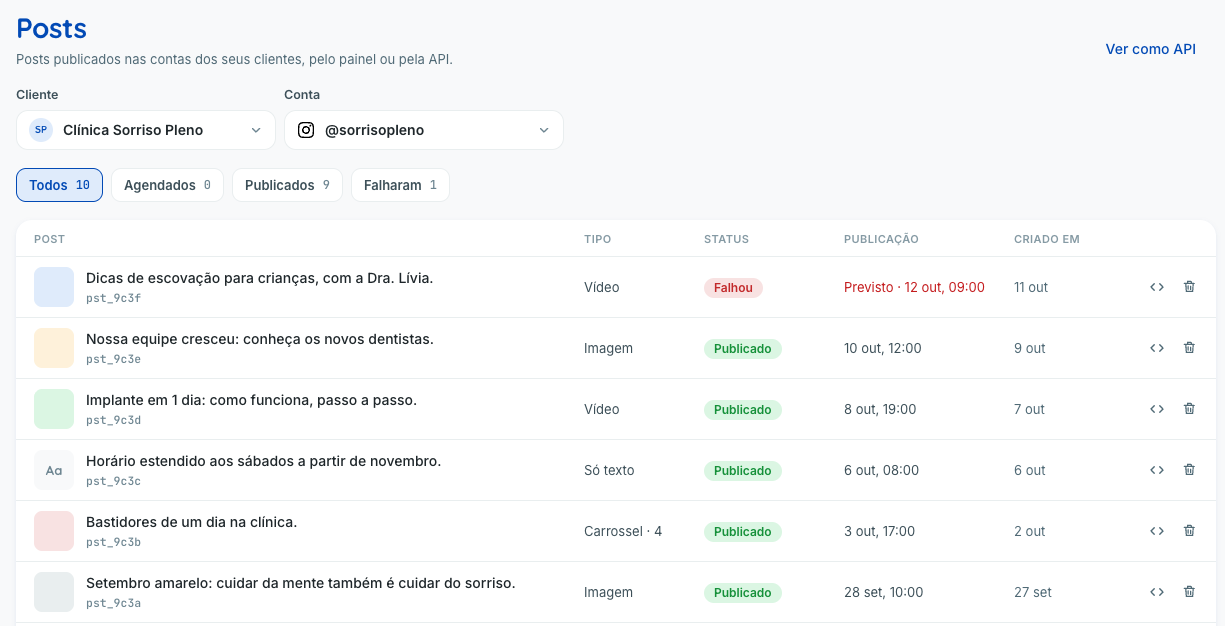
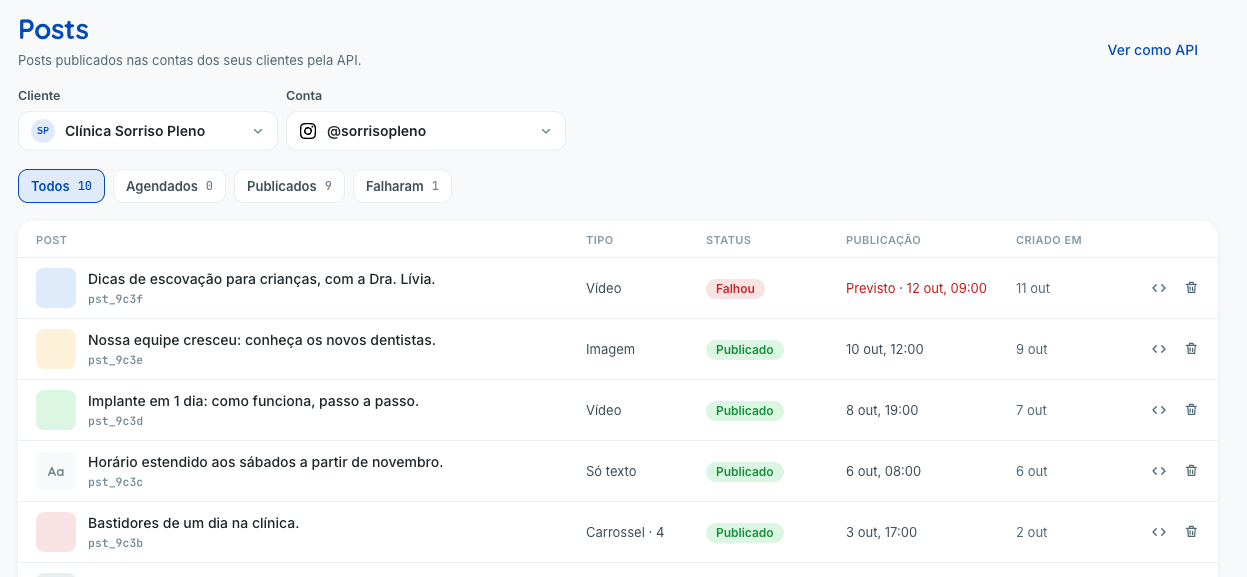
feat(lp): realistic post previews and the new Posts capture

diff --git a/components/api-demo-section.tsx b/components/api-demo-section.tsx
@@ -1,7 +1,7 @@
 "use client"
 
 import { useState, type ReactNode } from "react"
-import { ArrowDown, Check, Clock } from "lucide-react"
+import { ArrowDown, Bookmark, Check, Clock, Heart, MessageCircle, Send, Share2, ThumbsUp } from "lucide-react"
 
 type Step = {
   label: string
@@ -393,6 +393,38 @@ Idempotency-Key: post-2026-10-08-002-v1
   },
 ]
 
+/**
+ * Stand-in for the post's photo: a beach scene drawn in SVG, so the mockup reads as a picture
+ * without shipping a stock image.
+ */
+function SummerArt({ className = "" }: { className?: string }) {
+  return (
+    <svg viewBox="0 0 400 400" preserveAspectRatio="xMidYMid slice" className={className} aria-hidden="true">
+      <defs>
+        <linearGradient id="sky" x1="0" y1="0" x2="0" y2="1">
+          <stop offset="0" stopColor="#ffd9a8" />
+          <stop offset="1" stopColor="#ff9f8a" />
+        </linearGradient>
+        <linearGradient id="sea" x1="0" y1="0" x2="0" y2="1">
+          <stop offset="0" stopColor="#4fb6d6" />
+          <stop offset="1" stopColor="#2a7fb8" />
+        </linearGradient>
+      </defs>
+      <rect width="400" height="400" fill="url(#sky)" />
+      <circle cx="285" cy="150" r="58" fill="#fff4d6" />
+      <path d="M0 238 C 70 222 130 252 200 238 S 330 222 400 238 V 300 H 0 Z" fill="url(#sea)" />
+      <path d="M0 262 C 80 250 140 276 210 262 S 340 250 400 262 V 300 H 0 Z" fill="#7fd0e6" opacity="0.6" />
+      <path d="M0 290 C 120 270 260 300 400 282 V 400 H 0 Z" fill="#f6dcb0" />
+      <g transform="translate(92 236)">
+        <path d="M0 64 L 6 -6" stroke="#8a5a3c" strokeWidth="5" strokeLinecap="round" />
+        <path d="M-58 4 Q 6 -58 70 4 Z" fill="#ff5e7e" />
+        <path d="M-58 4 Q -26 -30 6 -6 Q 38 -30 70 4 Q 38 -10 6 -6 Q -26 -10 -58 4 Z" fill="#fff" opacity="0.35" />
+      </g>
+      <rect x="236" y="300" width="70" height="40" rx="6" fill="#ffffff" opacity="0.85" transform="rotate(-8 271 320)" />
+    </svg>
+  )
+}
+
 function SocialPost({
   network,
   status,
@@ -406,31 +438,49 @@ function SocialPost({
 
   return (
     <Panel title={instagram ? "No Instagram do seu cliente" : "Na página do seu cliente"}>
-      <div className="overflow-hidden rounded-lg border">
-        <div className="flex items-center justify-between gap-3 p-3">
-          <div className="flex items-center gap-2.5">
-            <span className="flex size-8 items-center justify-center rounded-full bg-gradient-to-br from-[#7039f3] to-[#070e4d] text-xs font-semibold text-white">
-              MM
-            </span>
-            <div>
-              <p className="text-sm font-semibold">{instagram ? "minha_marca" : "Minha Marca"}</p>
-              <p className="text-xs text-muted-foreground">{published ? "Agora" : "Enviando…"}</p>
-            </div>
+      <div className="mx-auto max-w-[360px] overflow-hidden rounded-lg border bg-white text-[13px]">
+        <div className="flex items-center gap-2.5 px-3 py-2.5">
+          <span
+            className={`flex size-8 shrink-0 items-center justify-center rounded-full text-[11px] font-semibold text-white ${
+              instagram
+                ? "bg-[#7039f3] ring-2 ring-[#f58529] ring-offset-2"
+                : "bg-[#7039f3]"
+            }`}
+          >
+            MM
+          </span>
+          <div className="min-w-0 flex-1 leading-tight">
+            <p className="font-semibold">{instagram ? "minha_marca" : "Minha Marca"}</p>
+            <p className="text-xs text-muted-foreground">
+              {published ? (instagram ? "Agora" : "Agora · Público") : "Publicando…"}
+            </p>
           </div>
           <img
             src={instagram ? "/images/integrations/instagram_business.svg" : "/images/integrations/facebook.svg"}
             alt=""
-            className="h-5 w-5"
+            className="h-4 w-4"
           />
         </div>
-        {!instagram && <p className="px-3 pb-3 text-sm">Coleção de verão chegando às lojas</p>}
-        <div
-          className={`flex aspect-[4/3] items-center justify-center bg-gradient-to-br from-[#ffb36b] via-[#ff6f91] to-[#7039f3] text-2xl font-semibold text-white ${published ? "" : "opacity-60"}`}
-        >
-          Coleção de verão
+
+        {!instagram && <p className="px-3 pb-2.5">Coleção de verão chegando às lojas ☀</p>}
+
+        <div className={`relative ${instagram ? "aspect-square" : "aspect-[1.91/1]"}`}>
+          <SummerArt className={`absolute inset-0 h-full w-full transition-opacity ${published ? "" : "opacity-50"}`} />
+          {!published && (
+            <span className="absolute inset-0 flex items-center justify-center">
+              <span className="size-8 animate-spin rounded-full border-[3px] border-white/60 border-t-white" />
+            </span>
+          )}
         </div>
-        {instagram && (
-          <div className="space-y-1 p-3 text-sm">
+
+        {instagram ? (
+          <div className="space-y-1 px-3 py-2.5">
+            <div className="flex items-center gap-3 pb-1 text-foreground">
+              <Heart className="h-5 w-5" aria-hidden="true" />
+              <MessageCircle className="h-5 w-5" aria-hidden="true" />
+              <Send className="h-5 w-5" aria-hidden="true" />
+              <Bookmark className="ml-auto h-5 w-5" aria-hidden="true" />
+            </div>
             <p>
               <span className="font-semibold">minha_marca</span> Coleção de verão #verao
             </p>
@@ -438,11 +488,30 @@ function SocialPost({
               <span className="font-semibold text-foreground">minha_marca</span> Link na bio!
             </p>
           </div>
+        ) : (
+          <div className="flex justify-around border-t px-3 py-2 text-xs font-medium text-muted-foreground">
+            <span className="flex items-center gap-1.5">
+              <ThumbsUp className="h-4 w-4" aria-hidden="true" />
+              Curtir
+            </span>
+            <span className="flex items-center gap-1.5">
+              <MessageCircle className="h-4 w-4" aria-hidden="true" />
+              Comentar
+            </span>
+            <span className="flex items-center gap-1.5">
+              <Share2 className="h-4 w-4" aria-hidden="true" />
+              Compartilhar
+            </span>
+          </div>
         )}
       </div>
-      <div className="mt-4 flex items-center justify-between gap-3">
+      <div className="mx-auto mt-4 flex max-w-[360px] items-center justify-between gap-3">
         {status}
-        {published && <span className="text-xs text-muted-foreground">{instagram ? "instagram.com/p/DePI16BER0c" : "facebook.com/minhamarca"}</span>}
+        {published && (
+          <span className="truncate text-xs text-muted-foreground">
+            {instagram ? "instagram.com/p/DePI16BER0c" : "facebook.com/minhamarca"}
+          </span>
+        )}
       </div>
     </Panel>
   )

diff --git a/components/product-shots.tsx b/components/product-shots.tsx
@@ -16,10 +16,10 @@ const SHOTS = [
     key: "posts",
     label: "Posts",
     src: "/images/explorer/app_posts.png",
-    width: 1225,
-    height: 626,
+    width: 1247,
+    height: 577,
     alt: "Painel de posts do Connect: publicações de um cliente no Instagram com tipo, status e data de publicação.",
-    caption: "Acompanhe cada post publicado nas contas dos seus clientes, pelo painel ou pela API.",
+    caption: "Acompanhe cada post publicado nas contas dos seus clientes pela API, com tipo, status e horário de publicação.",
   },
   {
     key: "ads",
